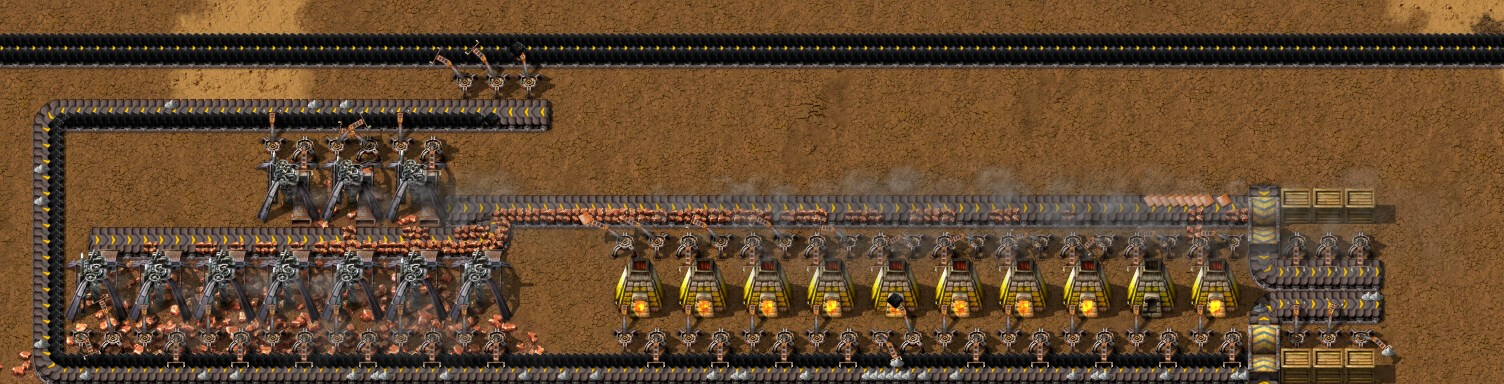
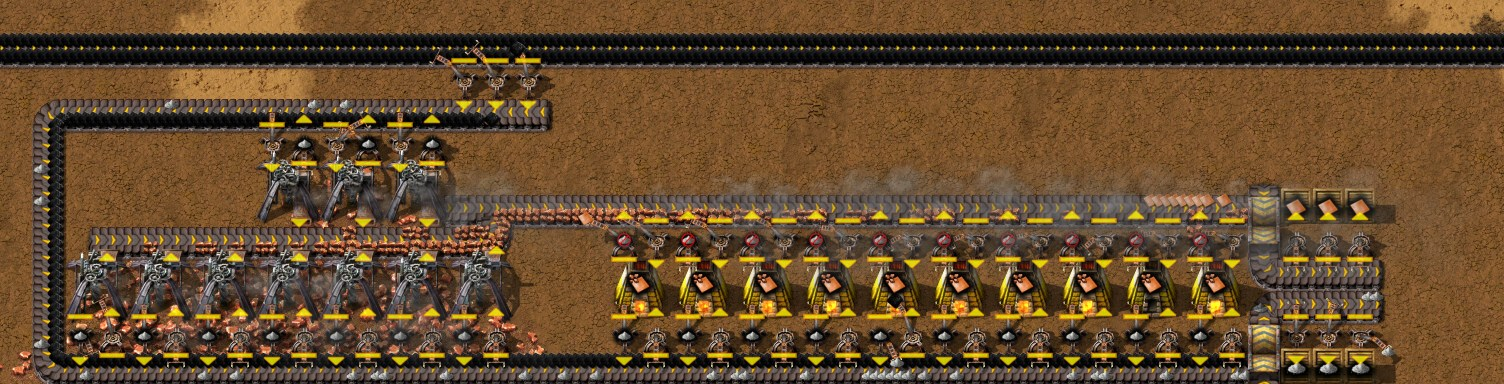
Use alt-view screenshots only
Every picture in the tutorial now shows entity info (recipes, filters,
directions), as the author asked: chapter 1 and the blueprint readmes use
the alt-view shots under the plain names, and /pt-shots and the design lab
take only that view. /pt-shots clears its folder first, so a pull brings
only the latest run.

diff --git a/tools/shots.js b/tools/shots.js
@@ -3,7 +3,7 @@
 //   node tools/shots.js plan name:x1,y1,x2,y2[,zoom] ...
 //     Writes tools/companion/shots.lua: the areas to shoot, in tile coordinates as
 //     tools/render-area.js prints them. In game, /pt-shots reloads the mod scripts (single
-//     player) and takes each area plain and with entity info ("-alt"), as JPGs.
+//     player) and takes each area with entity info (alt view), as JPGs.
 //
 //   node tools/shots.js pull
 //     Copies the JPGs from %APPDATA%\Factorio\script-output\py-tutorial-companion\shots into

diff --git a/chapters/01-landing-to-red-science.zh-CN.md b/chapters/01-landing-to-red-science.zh-CN.md
@@ -148,7 +148,7 @@
 
 这局里，原煤模块在 0:35–0:40 从蓝图书放下，位置在原煤矿区的边缘：作者想先把边缘的煤采完，而那里放不下完整的模块。于是用了 7 台的版本——1 台供燃料，6 台往输出带出煤，每秒最多约 10.8 个原煤（6 × 2 减去 7 台自己烧的）——对一个到 1:10 每秒烧约 6 个原煤的基地完全够用。落地时的四台风车留作手取的备用。
 
-![矿区边缘的 7 台版原煤模块，上方是落地时的风车（Alt 视图）](../images/ch1-raw-coal-alt.jpg)
+![矿区边缘的 7 台版原煤模块，上方是落地时的风车](../images/ch1-raw-coal.jpg)
 
 ### 一条带供全基地
 
@@ -211,7 +211,7 @@
 
 第一版在 1:10–1:17 建在一个铁冶炼单元的出板箱旁：五台热能组装机 MK1（组装科技解锁；3×3，75 kW，每台每秒烧 0.025 个原煤），分别做铁棒、螺栓、铁齿轮、铜缆和小部件，机器之间用机械臂直接传递。铁板从单元的出板箱经一小段传送带送来；铜板放在一个箱子里，暂时靠手动补充（超市用铜不多，以后再改成自动）；小部件进一个箱子。下一步：再加两台，分别做基础传送带和工业机械臂。
 
-![第一个超市（Alt 视图）：上排是铁棒、螺栓和铁齿轮，由传送带送来铁板；下排是铜缆（铜板来自左侧的箱子）和小部件](../images/ch1-mall-alt.jpg)
+![第一个超市：上排是铁棒、螺栓和铁齿轮，由传送带送来铁板；下排是铜缆（铜板来自左侧的箱子）和小部件](../images/ch1-mall.jpg)
 
 规划用的数字（数据推算）：每秒 1 个小部件需要每秒铁板 1.75、铜板 0.75，而机器时间只要 1.25 台（铁棒 0.375、铜缆 0.375、铁齿轮 0.25、螺栓 0.15、小部件 0.1）。每种配方一台机器，大部分时间都闲着；真正决定速度的是机械臂——小部件机器每秒做 1 个就要进 1.5 个铜缆和 1.5 个螺栓，而一个工业机械臂每秒约搬 0.83 个（带到带实测）。
 
@@ -248,7 +248,7 @@
 ## 10. 这些结论是怎么核实的
 
 - 这局游戏：由助手模组的记录器（`tools/companion`）记录，用 `tools/recorder-summary.js` 和 `tools/recorder-phases.js` 读取（每 5 分钟一段的时间线、每 10 分钟的产量、手搓）；最终存档（`Py-exploration`）用 `tools/inspect-save.ps1` 读取（一致性检查通过；结构用 `tools/render-area.js` 画出，包括机械臂的过滤模式和采矿机下方的剩余矿量）。
-- 图片：在作者的游戏中用助手模组的 `/pt-shots` 截取的游戏内画面（区域由 `tools/shots.js plan` 列出，用 `tools/shots.js pull` 取回）。
+- 图片：在作者的游戏中用助手模组的 `/pt-shots` 截取的游戏内画面（Alt 视图，显示实体信息）（区域由 `tools/shots.js plan` 列出，用 `tools/shots.js pull` 取回）。
 - 原型数值（尺寸、功率、配方、科技花费和触发条件、岩石产出）：`tools/dump-data.ps1` 导出当前模组组合的 `data.raw`；`tools/recipe-tree.js` 展开配方树；手搓的配方时间是所记录的每次手搓的配方时间之和。
 - 开局物品和配方：`tools/newgame-observer` 在新地图中观察。
 - 由 `tools/ch1-probe` 在引擎中实测：石炉与采矿机速率、灰烬导致停机、哪些机械臂会取走灰烬或燃料、石炉过滤输出、锅炉的蒸汽与燃料、蒸汽机功率、触发式科技的行为、陆地上的抽取泵。`tools/drill-probe`：堵住的热能采矿机一分钟烧 0.01 兆焦，正常工作的烧 14.5 兆焦。

diff --git a/chapters/01-landing-to-red-science.md b/chapters/01-landing-to-red-science.md
@@ -209,7 +209,7 @@ field: the author wanted the edge mined out first, and there the full module did
 1:10. The four-drill
 pinwheel from the landing stayed as a hand-picked reserve.
 
-![The 7-drill Raw coal module at the edge of the field, with the landing pinwheel above it (entity info on)](../images/ch1-raw-coal-alt.jpg)
+![The 7-drill Raw coal module at the edge of the field, with the landing pinwheel above it](../images/ch1-raw-coal.jpg)
 
 ### One belt for the whole base
 
@@ -307,7 +307,7 @@ plates come from a chest refilled by hand for now (the mall uses little copper; 
 comes later); Small parts go into a chest. Next: two more machines for Transport
 belts and Mechanical inserters.
 
-![The first mall (entity info on): Iron stick, Bolts and Iron gear wheel on the top row, fed with Iron plates from the belt; Copper cable from the chest of Copper plates and Small parts on the bottom row](../images/ch1-mall-alt.jpg)
+![The first mall: Iron stick, Bolts and Iron gear wheel on the top row, fed with Iron plates from the belt; Copper cable from the chest of Copper plates and Small parts on the bottom row](../images/ch1-mall.jpg)
 
 Planning numbers, from data: 1 Small part/s takes 1.75 Iron plate/s and 0.75 Copper plate/s, and
 only 1.25 machines' worth of time (Iron stick 0.375, Copper cable 0.375, Iron gear wheel 0.25,
@@ -366,8 +366,8 @@ Coal processing 1 opens the better iron route and is the subject of the next cha
   production every 10 minutes, handcrafting); the final save (`Py-exploration`) read with
   `tools/inspect-save.ps1` (consistency check passed; structures drawn with
   `tools/render-area.js`, including inserter filter modes and the ore left under drills).
-- Pictures: in-game screenshots taken in the author's game with the companion's `/pt-shots`
-  (areas listed by `tools/shots.js plan`, collected by `tools/shots.js pull`).
+- Pictures: in-game screenshots with entity info (alt view), taken in the author's game with the
+  companion's `/pt-shots` (areas listed by `tools/shots.js plan`, collected by `tools/shots.js pull`).
 - Prototype values (sizes, power, recipes, technology costs and triggers, rock yields):
   `tools/dump-data.ps1` dumps `data.raw` for the exact mod set; `tools/recipe-tree.js` expands
   recipe trees; handcrafting recipe time is the sum of recipe times over the recorded crafts.
